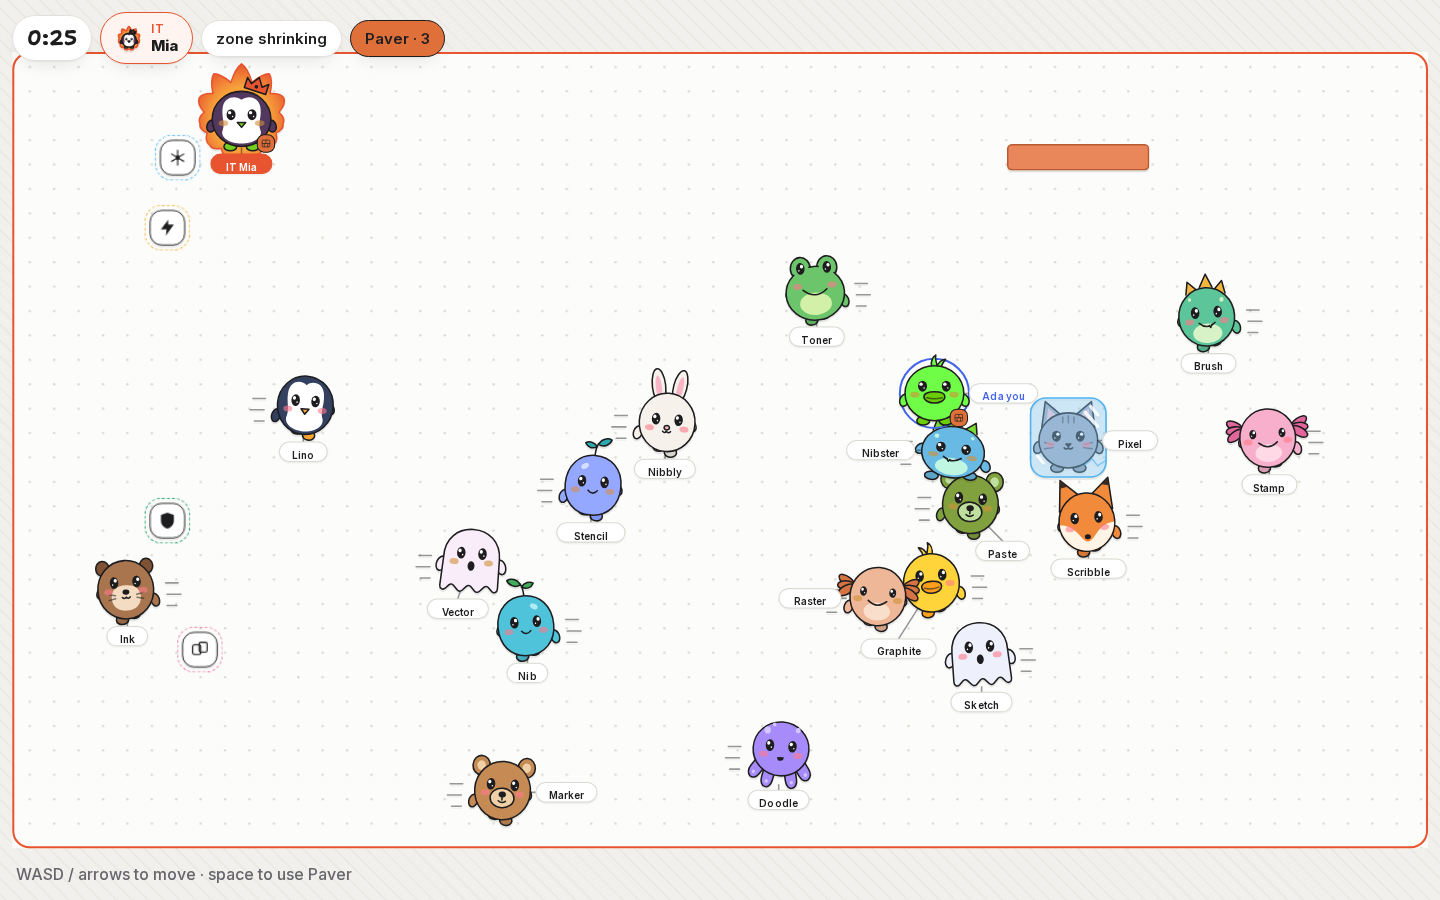
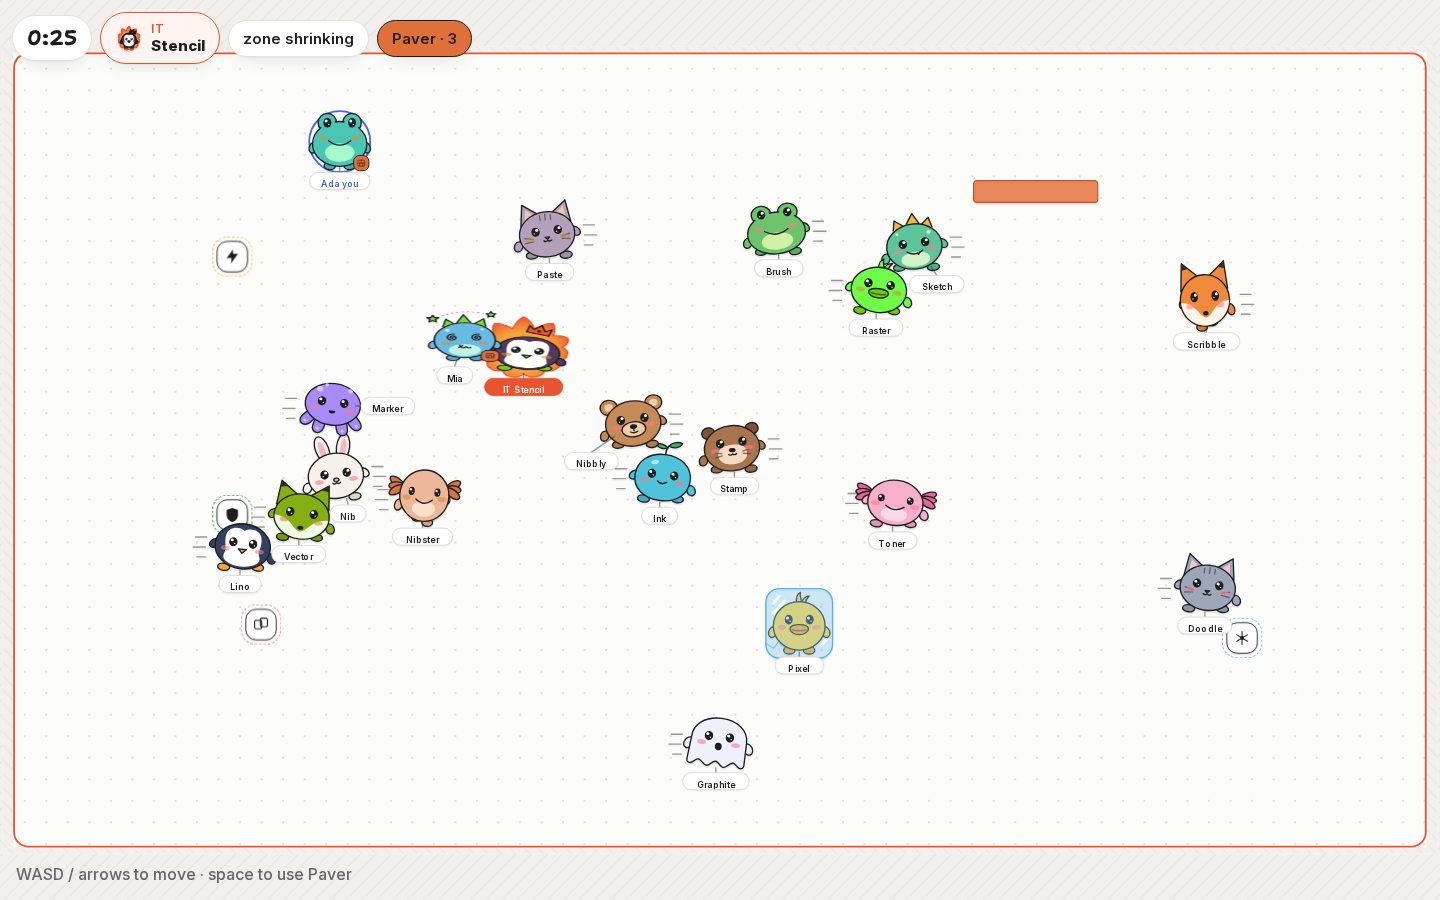
Let pinch-out zoom past the pan clamp.
Follow-cam still pans and centers on the playfield, but minZoom is only
the 60%/75% arena-width cap so pinch-out actually shrinks the critters.

diff --git a/apps/web/src/game/playGestures.test.ts b/apps/web/src/game/playGestures.test.ts
@@ -41,18 +41,27 @@ function run(events: Parameters<typeof reduceGesture>[1][], limits = portrait, s
 
 describe("play gestures", () => {
   it("clamps follow zoom so the whole arena never fits", () => {
-    assert.ok(portrait.minZoom >= 700 / ARENA_H - 1e-9);
-    assert.ok(portrait.minZoom >= 390 / (ARENA_W * PORTRAIT_MAX_VISIBLE_ARENA) - 1e-9);
-    assert.ok(landscape.minZoom >= 844 / (ARENA_W * LANDSCAPE_MAX_VISIBLE_ARENA) - 1e-9);
+    assert.equal(portrait.minZoom, 390 / (ARENA_W * PORTRAIT_MAX_VISIBLE_ARENA));
+    assert.equal(landscape.minZoom, 844 / (ARENA_W * LANDSCAPE_MAX_VISIBLE_ARENA));
     assert.ok(portrait.maxZoom / portrait.base - ZOOM_IN_MAX < 1e-9);
-    assert.ok(landscape.base >= landscape.minZoom);
+    assert.ok(landscape.base > landscape.minZoom);
     assert.ok(visibleArenaWidth(390, portrait.minZoom) <= PORTRAIT_MAX_VISIBLE_ARENA + 1e-9);
     assert.ok(visibleArenaWidth(844, landscape.minZoom) <= LANDSCAPE_MAX_VISIBLE_ARENA + 1e-9);
-    assert.ok(visibleArenaWidth(844, landscape.base) <= LANDSCAPE_MAX_VISIBLE_ARENA + 1e-9);
     assert.ok(portrait.base >= MOBILE_BLOB_PX / PLAYER_TOKEN - 1e-9);
-    assert.ok(portrait.base >= 700 / 900 - 1e-9);
     assert.ok(clampZoom(0, portrait) === portrait.minZoom);
     assert.ok(clampZoom(99, portrait) === portrait.maxZoom);
+  });
+
+  it("zoom-out clamp widens the visible arena vs the default", () => {
+    const portDefault = visibleArenaWidth(390, portrait.base);
+    const portOut = visibleArenaWidth(390, portrait.minZoom);
+    assert.ok(portOut > portDefault + 0.08, `portrait ${portOut} vs ${portDefault}`);
+    assert.ok(Math.abs(portOut - PORTRAIT_MAX_VISIBLE_ARENA) < 1e-9);
+
+    const landDefault = visibleArenaWidth(844, landscape.base);
+    const landOut = visibleArenaWidth(844, landscape.minZoom);
+    assert.ok(landOut > landDefault + 0.08, `landscape ${landOut} vs ${landDefault}`);
+    assert.ok(Math.abs(landOut - LANDSCAPE_MAX_VISIBLE_ARENA) < 1e-9);
   });
 
   it("spawns a stick at the first board finger and follows it", () => {

diff --git a/apps/web/src/game/playGestures.ts b/apps/web/src/game/playGestures.ts
@@ -66,9 +66,9 @@ export function zoomLimits(opts: {
   blobPx: number;
 }): ZoomLimits {
   const blobZoom = defaultFollowZoom(opts.blobPx);
-  const coverArena = Math.max(opts.viewportW / ARENA_W, opts.viewportH / ARENA_H);
-  const minZoom = Math.max(minFollowZoom(opts.viewportW, opts.landscape), coverArena);
-  const base = Math.max(blobZoom, minZoom);
+  const minZoom = minFollowZoom(opts.viewportW, opts.landscape);
+  // Default stays tighter than the zoom-out cap so pinch-out actually widens the view.
+  const base = Math.max(blobZoom, minZoom * 1.3);
   const maxZoom = base * ZOOM_IN_MAX;
   return { base, minZoom, maxZoom: Math.max(maxZoom, minZoom) };
 }
@@ -84,15 +84,6 @@ export function followBounds(zone: Box, viewportW: number, viewportH: number, zo
     return { x: 0, y: 0, w: ARENA_W, h: ARENA_H };
   }
   return { x: zone.x, y: zone.y, w: zone.w, h: zone.h };
-}
-
-/** Don't zoom out past the current playfield; arena-cover is the absolute floor. */
-export function zoomFloor(viewportW: number, viewportH: number, zone: Box, limits: ZoomLimits) {
-  const coverZone = Math.max(
-    viewportW / Math.max(1, zone.w),
-    viewportH / Math.max(1, zone.h),
-  );
-  return Math.max(limits.minZoom, coverZone);
 }
 
 /** Keep the follow camera on the playfield. Center when the board is smaller than the view. */
@@ -171,10 +162,10 @@ function pointerList(pointers: Record<number, Vec>) {
 export function reduceGesture(
   state: GestureState,
   event: GestureEvent,
-  ctx: { now: number; limits: ZoomLimits },
+  ctx: { now: number; limits: ZoomLimits; startZoom?: number },
 ): GestureState {
   if (event.type === "reset") {
-    return idleGesture(ctx.limits.base);
+    return idleGesture(ctx.startZoom ?? ctx.limits.base);
   }
 
   const pointers = { ...state.pointers };

diff --git a/apps/web/src/components/PlayGestures.tsx b/apps/web/src/components/PlayGestures.tsx
@@ -21,6 +21,7 @@ export function PlayGestures({
   tint = 0,
   hint = false,
   landscape = false,
+  startZoom,
 }: {
   enabled: boolean;
   limits: ZoomLimits;
@@ -30,15 +31,18 @@ export function PlayGestures({
   tint?: number;
   hint?: boolean;
   landscape?: boolean;
+  startZoom?: number;
 }) {
   const layer = useRef<HTMLDivElement>(null);
   const limitsRef = useRef(limits);
   limitsRef.current = limits;
+  const startZoomRef = useRef(startZoom ?? limits.base);
+  startZoomRef.current = startZoom ?? limits.base;
   const moveRef = useRef(onMove);
   moveRef.current = onMove;
   const zoomOut = useRef(onZoom);
   zoomOut.current = onZoom;
-  const [state, setState] = useState<GestureState>(() => idleGesture(limits.base));
+  const [state, setState] = useState<GestureState>(() => idleGesture(startZoom ?? limits.base));
   const stateRef = useRef(state);
   stateRef.current = state;
   const [hintExpired, setHintExpired] = useState(false);
@@ -52,7 +56,11 @@ export function PlayGestures({
 
   const dispatch = useCallback((event: GestureEvent) => {
     const prev = stateRef.current;
-    const next = reduceGesture(prev, event, { now: Date.now(), limits: limitsRef.current });
+    const next = reduceGesture(prev, event, {
+      now: Date.now(),
+      limits: limitsRef.current,
+      startZoom: startZoomRef.current,
+    });
     stateRef.current = next;
     setState(next);
     if (next.input.x !== prev.input.x || next.input.y !== prev.input.y) {

diff --git a/apps/web/src/components/GameCanvas.tsx b/apps/web/src/components/GameCanvas.tsx
@@ -15,7 +15,7 @@ import {
   clampToZoneArt,
   playerTint,
 } from "@inkt/shared";
-import { ZOOM_IN_MAX, clampZoom, followBounds, followCamera, zoomFloor, zoomLimits } from "@/game/playGestures";
+import { ZOOM_IN_MAX, clampZoom, followBounds, followCamera, zoomLimits } from "@/game/playGestures";
 import { INKT_SHAPES } from "@/shapes/inkt-shapes";
 import { liveLabelScale, layoutPlayers } from "@/game/layoutPlayers";
 import type { ViewState } from "@/game/types";
@@ -105,9 +105,8 @@ export function GameCanvas({
       const coverZone = Math.max(vp.w / Math.max(1, zone.w), vp.h / Math.max(1, zone.h));
       const fallback = Math.max(limits.base, coverZone);
       const zoom = clampZoom(cameraZoomRef.current ?? fallback, {
-        minZoom: zoomFloor(vp.w, vp.h, zone, limits),
+        ...limits,
         maxZoom: Math.max(limits.maxZoom, fallback * ZOOM_IN_MAX),
-        base: fallback,
       });
       const cam = followCamera({
         viewportW: vp.w,

diff --git a/apps/web/src/app/play/[code]/page.tsx b/apps/web/src/app/play/[code]/page.tsx
@@ -92,6 +92,13 @@ export default function PlayPage() {
       }),
     [stage.w, stage.h, landscape, blobPx],
   );
+  const defaultZoom = useMemo(() => {
+    const coverZone = Math.max(
+      stage.w / Math.max(1, view.zone.w),
+      stage.h / Math.max(1, view.zone.h),
+    );
+    return Math.max(limits.base, coverZone);
+  }, [stage.w, stage.h, view.zone.w, view.zone.h, limits.base]);
   const [cameraZoom, setCameraZoom] = useState<number | null>(null);
   useEffect(() => {
     setCameraZoom(null);
@@ -218,6 +225,7 @@ export default function PlayPage() {
           key={landscape ? "land" : "port"}
           enabled={mobile && view.phase !== "ended"}
           limits={limits}
+          startZoom={defaultZoom}
           onZoom={(z) => setCameraZoom(z)}
           onMove={sendInput}
           avatar={me?.avatar}
